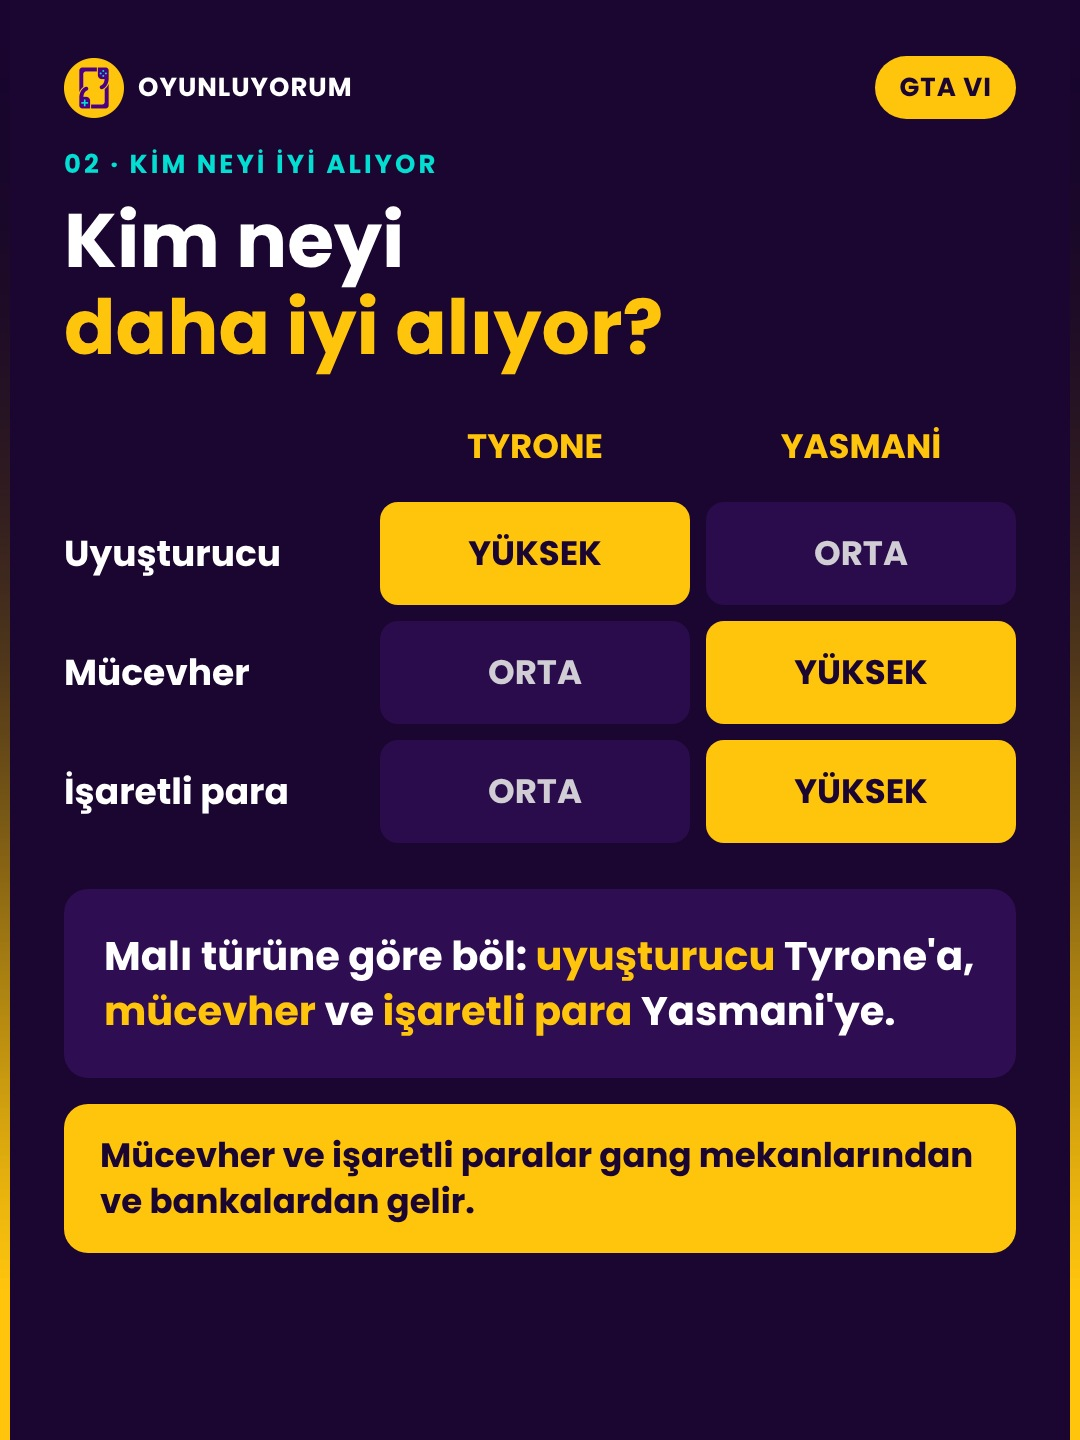
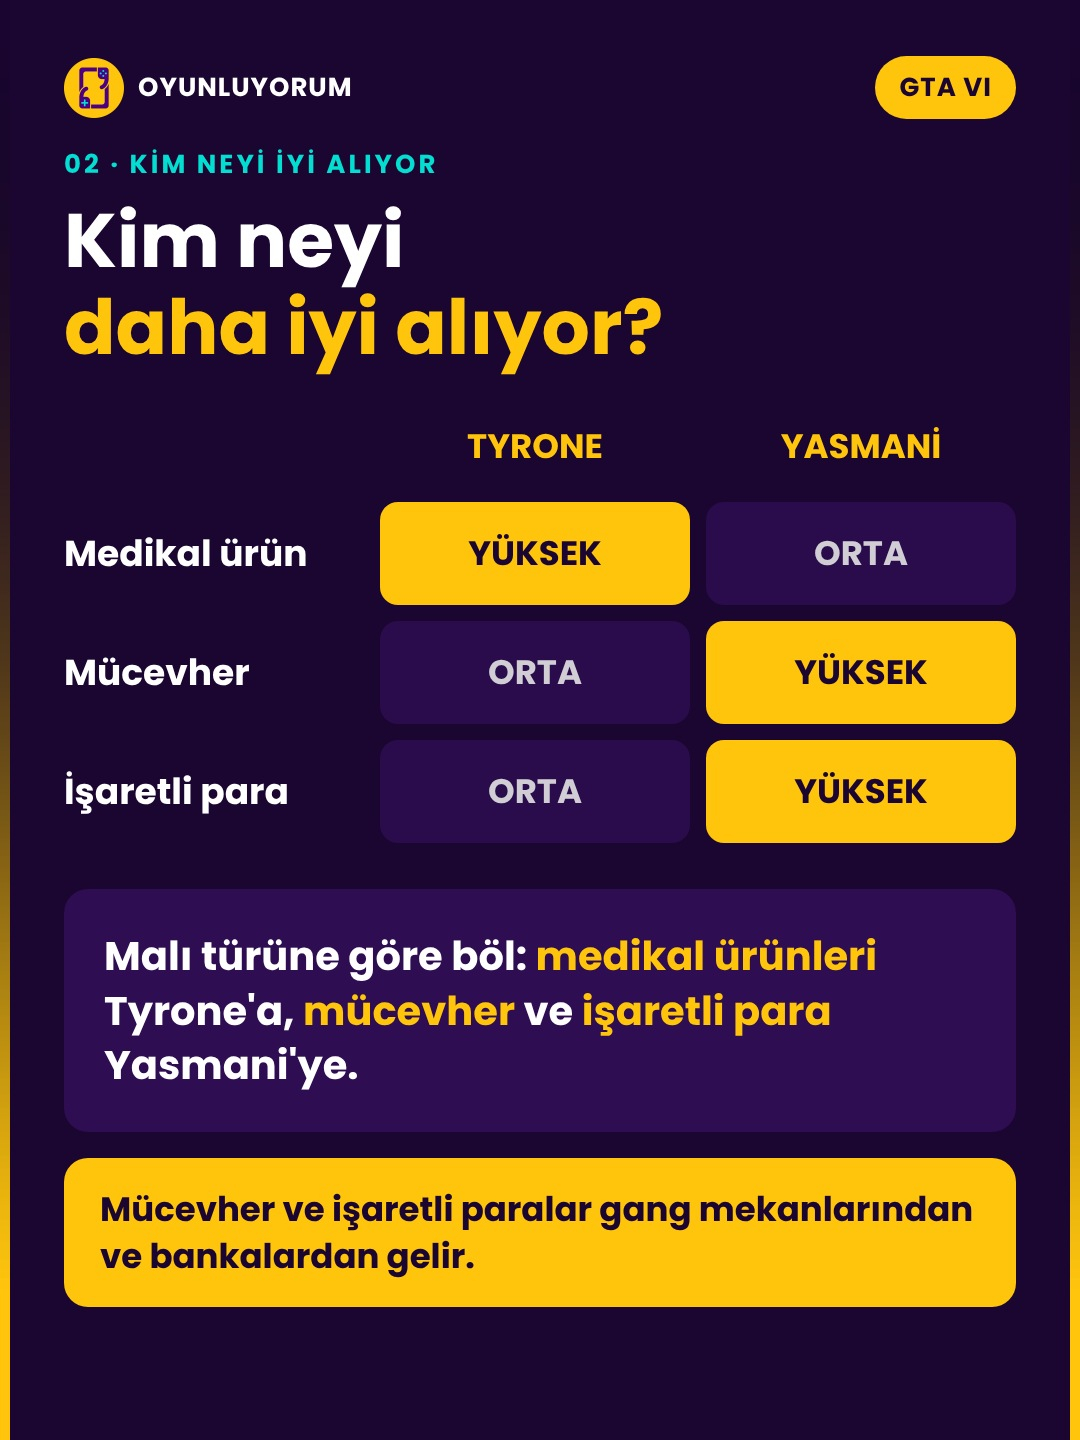
Yasmani Tyrone karuseli: uyuşturucu yerine medikal ürün
Claude-Session: https://claude.ai/code/session_01Cfy9VgEXWVL5ta7MT2PpLs

Changed region(s): [[0.0611, 0.6562, 0.9472, 0.9062], [0.0611, 0.375, 0.275, 0.4062]]

diff --git a/posts/2026-11-27-gta6-yasmani-tyrone/aciklama.md b/posts/2026-11-27-gta6-yasmani-tyrone/aciklama.md
@@ -6,7 +6,7 @@ Not: Makale yüzde/dolar vermiyor, ödemeler sadece yüksek/orta/düşük. Slayt
 
 ## Açıklama
 GTA 6'da çaldığın malı yanlış kişiye satıyorsan para kaybediyorsun 💸
-Uyuşturucuyu Tyrone'a, mücevher ve işaretli parayı Yasmani'ye götür. Partnerine sattırırsan mal rastgele birine gidiyor ve çok daha az ödüyor.
+Medikal ürünleri Tyrone'a, mücevher ve işaretli parayı Yasmani'ye götür. Partnerine sattırırsan mal rastgele birine gidiyor ve çok daha az ödüyor.
 Sen malını nereye satıyorsun? 👇
 Bunu soygun arkadaşına gönder.
 
